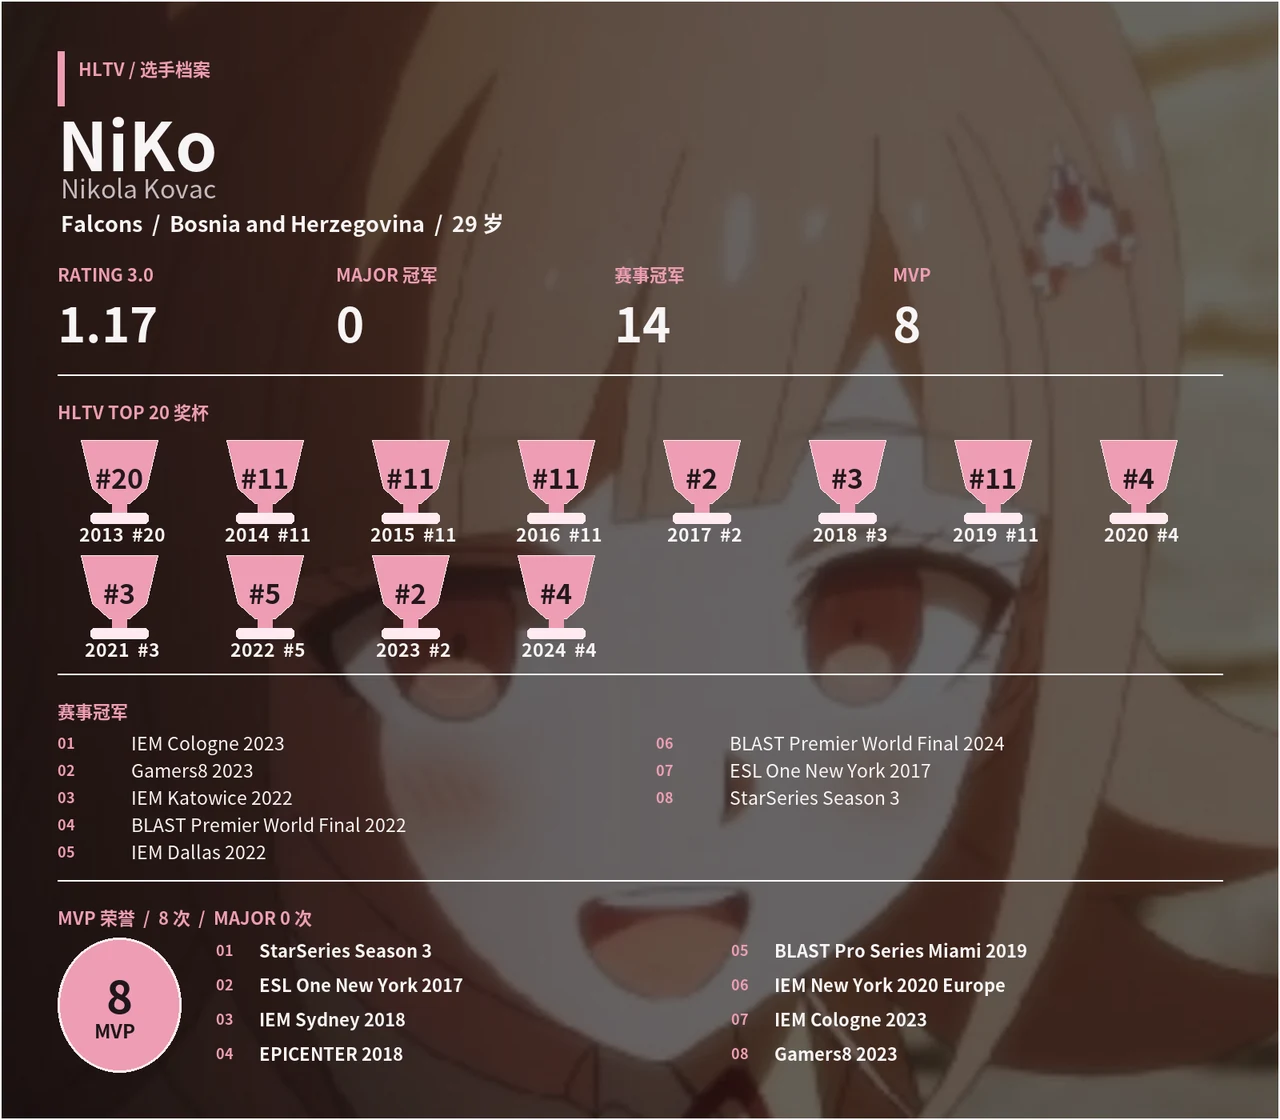
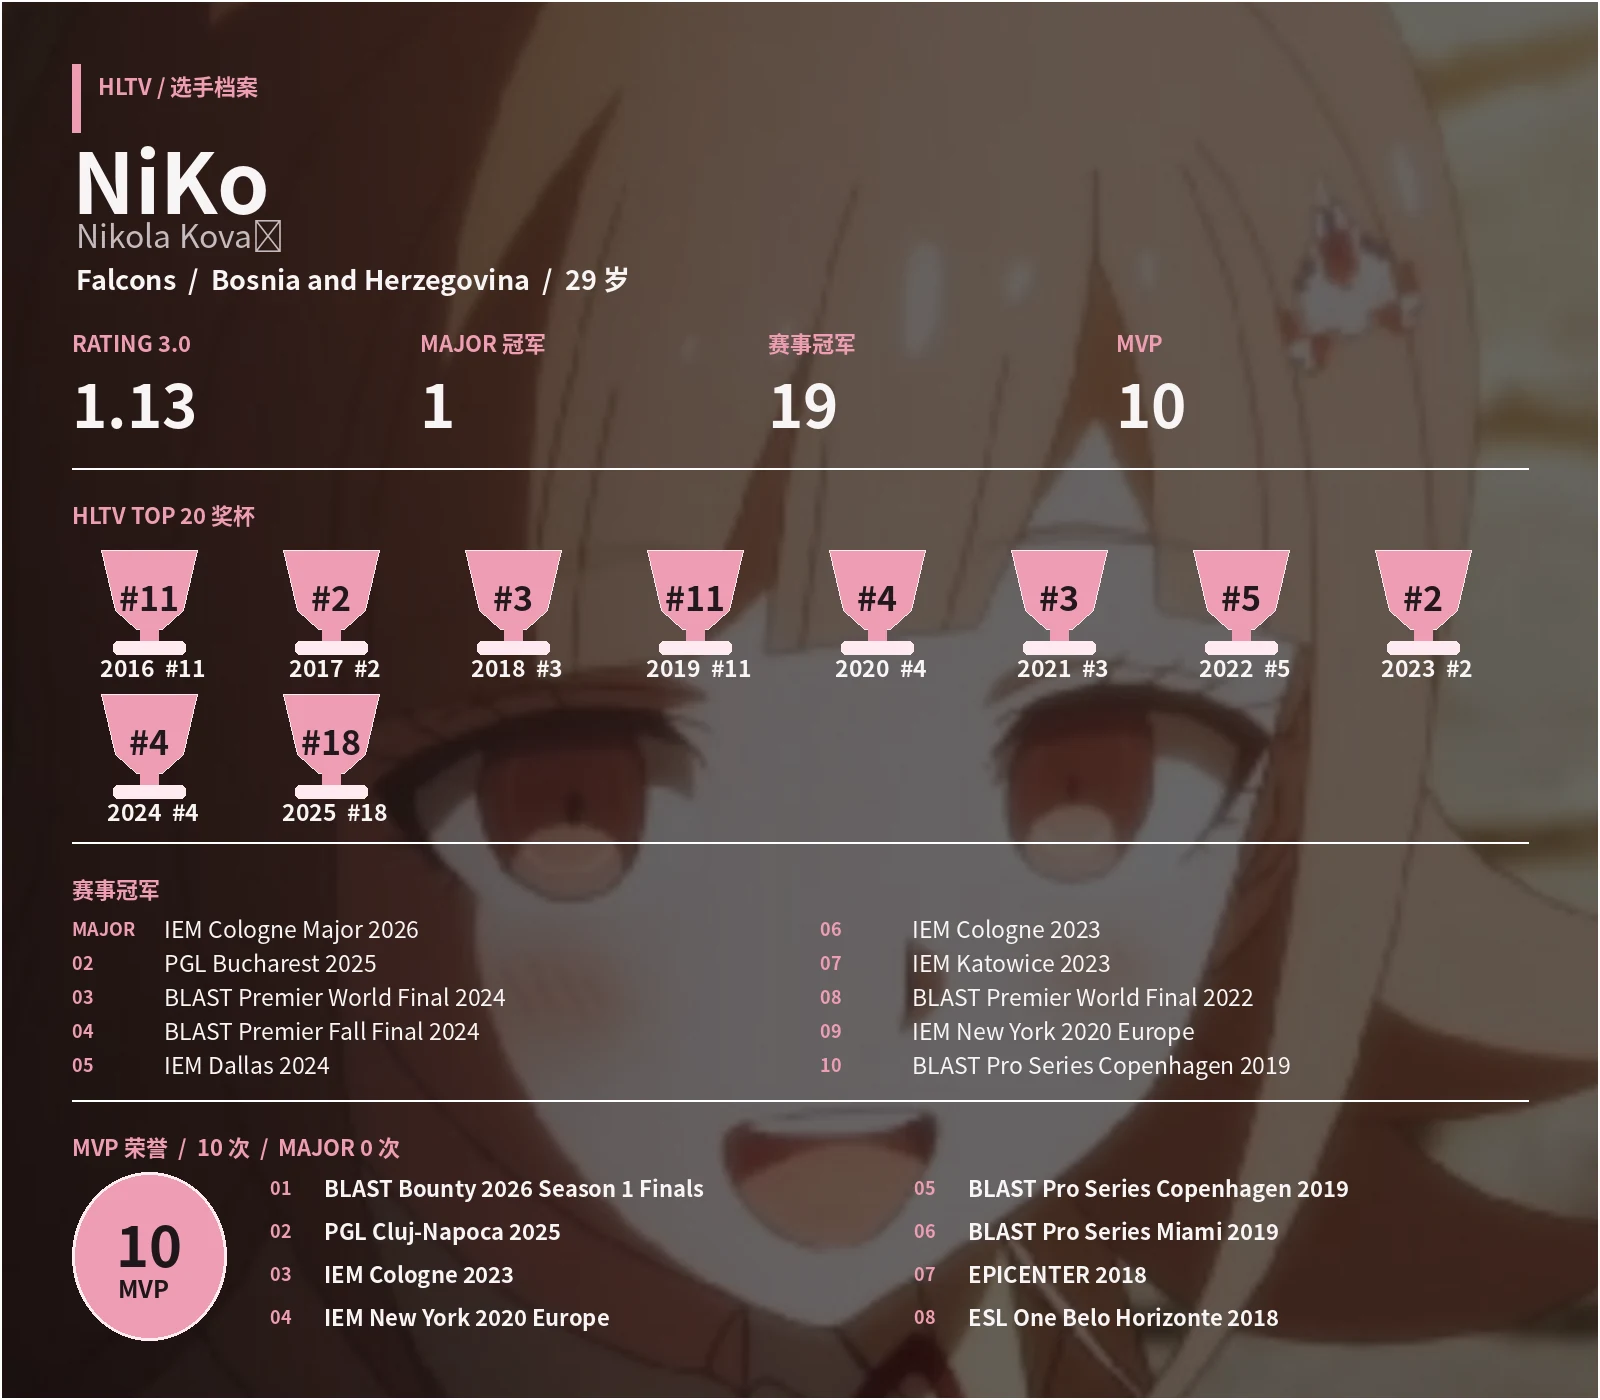
fix: restore live scores on Linux

diff --git a/core/client.py b/core/client.py
@@ -58,7 +58,7 @@ _LIVE_TTL = 60
 
 _SEARCH_URL = "https://www.hltv.org/search?term={}"
 _MATCHES_URL = "https://www.hltv.org/matches"
-_SCOREBOT_HOST = "scorebot-lb.hltv.org"
+_SCOREBOT_HOSTS = {"scorebot-lb.hltv.org", "scorebot-secure.hltv.org"}
 _RANKING_URL = "https://www.hltv.org/ranking/teams"
 _VRS_URL = "https://www.hltv.org/valve-ranking/teams"
 _HOME_URL = "https://www.hltv.org/"
@@ -521,7 +521,7 @@ class HltvClient:
 
     @staticmethod
     def _parse_match_maps(page: Any, *, match_finished: bool) -> list[dict]:
-        """读取详情页的地图顺序；直播比分不从这里推断。"""
+        """读取详情页地图状态；已结束地图以 STATS 链接为准。"""
         maps = []
         for holder in page.find_all("div", class_="mapholder"):
             name_el = holder.find(class_="mapname")
@@ -531,6 +531,7 @@ class HltvClient:
             right = holder.find(class_="results-right")
             left_classes = left.get("class") or [] if left is not None else []
             right_classes = right.get("class") or [] if right is not None else []
+            stats_link = holder.select_one("a.results-stats[href*='/mapstatsid/']")
             scores = [
                 e.get_text(strip=True)
                 for e in holder.find_all(class_="results-team-score")
@@ -543,16 +544,28 @@ class HltvClient:
                         "s1": scores[0],
                         "s2": scores[1],
                         "played": "played" in result_classes,
-                        "finished": bool(match_finished and winner),
-                        "winner": winner,
+                        "finished": bool(stats_link or (match_finished and winner)),
+                        "winner": winner if stats_link or match_finished else 0,
                     }
                 )
+
+        # 后一张地图已经开始时，前面的已开地图必然全部结束。这个状态不依赖比分阈值。
+        played_indexes = [i for i, item in enumerate(maps) if item.get("played")]
+        for i in played_indexes[:-1]:
+            item = maps[i]
+            if item.get("finished"):
+                continue
+            s1, s2 = str(item.get("s1") or ""), str(item.get("s2") or "")
+            if s1.isdigit() and s2.isdigit() and s1 != s2:
+                item["finished"] = True
+                item["winner"] = 1 if int(s1) > int(s2) else 2
         return maps
 
     @staticmethod
     def summarize_map_scores(maps: list[dict]) -> dict:
-        """汇总已明确标记结束的地图，用于完赛页面。"""
+        """汇总已结束地图和最后一张进行中的地图。"""
         won1 = won2 = 0
+        active = None
         active_index = 0
         for index, item in enumerate(maps, start=1):
             if item.get("played"):
@@ -561,11 +574,24 @@ class HltvClient:
                 winner = int(item.get("winner") or 0)
                 won1 += winner == 1
                 won2 += winner == 2
+            elif item.get("played"):
+                active = item
+        current_name = str(active.get("map") or "") if active else ""
+        s1, s2 = (
+            (str(active.get("s1") or ""), str(active.get("s2") or ""))
+            if active
+            else ("", "")
+        )
+        current_score = f"{s1}:{s2}" if s1.isdigit() and s2.isdigit() else ""
         return {
             "maps_score": f"{won1}:{won2}",
-            "current_map": "",
-            "current_map_name": "",
-            "current_score": "",
+            "current_map": (
+                f"{current_name} {current_score}"
+                if current_name and current_score
+                else ""
+            ),
+            "current_map_name": current_name,
+            "current_score": current_score,
             "active_map_index": active_index,
             "map_total": len(maps),
         }
@@ -575,25 +601,22 @@ class HltvClient:
         element = page.select_one("#scoreboardElement[data-scorebot-id]")
         if element is None:
             return {}
-        url = str(element.get("data-scorebot-url") or "").rstrip("/")
-        parsed = urlparse(url)
         config = {
-            "url": url,
             "list_id": str(element.get("data-scorebot-id") or ""),
             "team1_id": str(element.get("data-team1-id") or ""),
             "team2_id": str(element.get("data-team2-id") or ""),
         }
-        if (
-            parsed.scheme != "https"
-            or parsed.hostname != _SCOREBOT_HOST
-            or not all(config.values())
-            or not all(
-                config[key].isdigit()
-                for key in ("list_id", "team1_id", "team2_id")
-            )
+        if not all(config.values()) or not all(
+            config[key].isdigit() for key in ("list_id", "team1_id", "team2_id")
         ):
             return {}
-        return config
+        urls = str(element.get("data-scorebot-url") or "").split(",")
+        for value in reversed(urls):
+            url = value.strip().rstrip("/")
+            parsed = urlparse(url)
+            if parsed.scheme == "https" and parsed.hostname in _SCOREBOT_HOSTS:
+                return {"url": url, **config}
+        return {}
 
     @staticmethod
     def _decode_engineio_payload(payload: bytes) -> list[str]:
@@ -638,7 +661,7 @@ class HltvClient:
         cls, config: dict, *, proxy: str | None, timeout: int
     ) -> dict | None:
         if CurlSession is None:
-            return None
+            raise RuntimeError("curl_cffi 未安装或无法加载，不能连接 HLTV scorebot")
         session = CurlSession(impersonate="chrome")
         endpoint = f"{config['url']}/socket.io/"
         options: dict[str, Any] = {
@@ -649,7 +672,9 @@ class HltvClient:
             options["proxy"] = proxy
         headers = {
             "origin": "https://www.hltv.org",
-            "referer": "https://www.hltv.org/",
+            "referer": str(config.get("referer") or "https://www.hltv.org/"),
+            "accept-language": "en-US,en;q=0.9",
+            "cache-control": "no-cache",
         }
 
         def params(sid: str = "") -> dict:
@@ -693,6 +718,8 @@ class HltvClient:
             if not sid:
                 return None
 
+            if not post_packet(sid, "40"):
+                return None
             response = session.get(
                 endpoint, params=params(sid), headers=headers, **options
             )
@@ -877,18 +904,20 @@ class HltvClient:
         countdown = countdown_el.get_text(" ", strip=True).lower() if countdown_el else ""
         finished = "match over" in countdown
         maps = cls._parse_match_maps(page, match_finished=finished)
-        summary = (
-            cls.summarize_map_scores(maps)
-            if finished
-            else {
-                "maps_score": "",
-                "current_map": "",
-                "current_map_name": "",
-                "current_score": "",
-                "active_map_index": 0,
-                "map_total": len(maps),
-            }
+        has_page_score = any(
+            item.get("played")
+            and str(item.get("s1") or "").isdigit()
+            and str(item.get("s2") or "").isdigit()
+            for item in maps
         )
+        summary = cls.summarize_map_scores(maps) if finished or has_page_score else {
+            "maps_score": "",
+            "current_map": "",
+            "current_map_name": "",
+            "current_score": "",
+            "active_map_index": 0,
+            "map_total": len(maps),
+        }
 
         team1_el = page.select_one(".team1-gradient .teamName")
         team2_el = page.select_one(".team2-gradient .teamName")
@@ -903,7 +932,7 @@ class HltvClient:
             "maps": maps,
             "rating_version": version,
             "ratings": ratings,
-            "score_source": "page" if finished else "unavailable",
+            "score_source": "page" if finished or has_page_score else "unavailable",
         }
 
     async def get_match_snapshot(
@@ -920,6 +949,7 @@ class HltvClient:
             config = self._parse_scorebot_config(page)
             if not config:
                 return snapshot
+            config["referer"] = url
             score = await self._fetch_scorebot(config)
             if score is None:
                 return snapshot

diff --git a/tests/test_live_player.py b/tests/test_live_player.py
@@ -581,7 +581,7 @@ class MatchSnapshotTests(unittest.TestCase):
         self.assertIn("100 Thieves 1:1 Spirit", notice)
         self.assertIn("donk 1.61", notice)
 
-    def test_live_page_does_not_guess_score_without_scorebot(self):
+    def test_live_page_uses_finished_map_links_as_scorebot_fallback(self):
         page = BeautifulSoup(
             """
             <div class="countdown">LIVE</div>
@@ -593,6 +593,7 @@ class MatchSnapshotTests(unittest.TestCase):
                 <div class="results-left"><div class="results-team-score">7</div></div>
                 <div class="results-right won"><div class="results-team-score">13</div></div>
               </div>
+              <a class="results-stats" href="/stats/matches/mapstatsid/1/test">STATS</a>
             </div>
             <div class="mapholder">
               <div class="mapname">Anubis</div>
@@ -607,10 +608,10 @@ class MatchSnapshotTests(unittest.TestCase):
 
         snapshot = HltvClient._parse_match_snapshot(page)
 
-        self.assertEqual(snapshot["maps_score"], "")
-        self.assertEqual(snapshot["current_map_name"], "")
-        self.assertEqual(snapshot["current_score"], "")
-        self.assertEqual(snapshot["score_source"], "unavailable")
+        self.assertEqual(snapshot["maps_score"], "0:1")
+        self.assertEqual(snapshot["current_map_name"], "Anubis")
+        self.assertEqual(snapshot["current_score"], "2:10")
+        self.assertEqual(snapshot["score_source"], "page")
 
     def test_scorebot_fields_define_all_live_scores(self):
         config = {"team1_id": "10", "team2_id": "20"}
@@ -797,6 +798,66 @@ class ScorebotSnapshotTests(unittest.IsolatedAsyncioTestCase):
         self.assertEqual(snapshot["current_score"], "4:6")
         self.assertNotIn("99", str(snapshot))
 
+    def test_scorebot_config_uses_last_supported_url(self):
+        page = BeautifulSoup(
+            """
+            <div id="scoreboardElement"
+                 data-scorebot-url="https://scorebot-secure.hltv.org,https://scorebot-lb.hltv.org/"
+                 data-scorebot-id="123"
+                 data-team1-id="10"
+                 data-team2-id="20"></div>
+            """,
+            "lxml",
+        )
+
+        config = HltvClient._parse_scorebot_config(page)
+
+        self.assertEqual(config["url"], "https://scorebot-lb.hltv.org")
+
+    async def test_scorebot_dependency_failure_keeps_page_scores(self):
+        page = BeautifulSoup(
+            """
+            <div class="countdown">LIVE</div>
+            <div class="team1-gradient"><div class="teamName">Liquid</div></div>
+            <div class="team2-gradient"><div class="teamName">Spirit</div></div>
+            <div class="mapholder">
+              <div class="mapname">Dust2</div>
+              <div class="results played">
+                <div class="results-left"><div class="results-team-score">7</div></div>
+                <div class="results-right won"><div class="results-team-score">13</div></div>
+              </div>
+              <a class="results-stats" href="/stats/matches/mapstatsid/1/test">STATS</a>
+            </div>
+            <div class="mapholder">
+              <div class="mapname">Anubis</div>
+              <div class="results played">
+                <div class="results-left"><div class="results-team-score">2</div></div>
+                <div class="results-right won"><div class="results-team-score">10</div></div>
+              </div>
+            </div>
+            <div id="scoreboardElement"
+                 data-scorebot-url="https://scorebot-lb.hltv.org"
+                 data-scorebot-id="123"
+                 data-team1-id="10"
+                 data-team2-id="20"></div>
+            """,
+            "lxml",
+        )
+        client = HltvClient(cache_ttl=0)
+        client._fetch_raw = AsyncMock(return_value=page)
+
+        with patch("core.client.CurlSession", None), patch(
+            "core.client.logger.warning"
+        ) as warning:
+            snapshot = await client.get_match_snapshot(
+                "123", "https://www.hltv.org/matches/123/test"
+            )
+
+        self.assertEqual(snapshot["maps_score"], "0:1")
+        self.assertEqual(snapshot["current_score"], "2:10")
+        self.assertEqual(snapshot["score_source"], "page")
+        self.assertIn("curl_cffi", warning.call_args.args[0])
+
     async def test_scorebot_polling_protocol_returns_score_event(self):
         config = {
             "url": "https://scorebot-lb.hltv.org",
@@ -852,7 +913,8 @@ class ScorebotSnapshotTests(unittest.IsolatedAsyncioTestCase):
             )
 
         self.assertEqual(result, score)
-        self.assertIn("readyForScores", FakeSession.instance.posts[0])
+        self.assertEqual(FakeSession.instance.posts[0], "2:40")
+        self.assertIn("readyForScores", FakeSession.instance.posts[1])
         self.assertTrue(FakeSession.instance.closed)
 
 

diff --git a/CHANGELOG.md b/CHANGELOG.md
@@ -1,5 +1,11 @@
 # 更新日志
 
+## v2.1.9 (2026-07-31)
+
+- 修复 Linux 服务器上直播比分可能一直显示“当前地图暂未同步”的问题。
+- 修正 scorebot 连接顺序并兼容多地址配置；实时通道不可用时，从比赛详情页读取大局和当前地图比分。
+- 更新 README 的选手详情示例图。
+
 ## v2.1.8 (2026-07-30)
 
 - 直播小局比分和系列赛大局比分改为读取 HLTV 官方 scorebot 数据。
